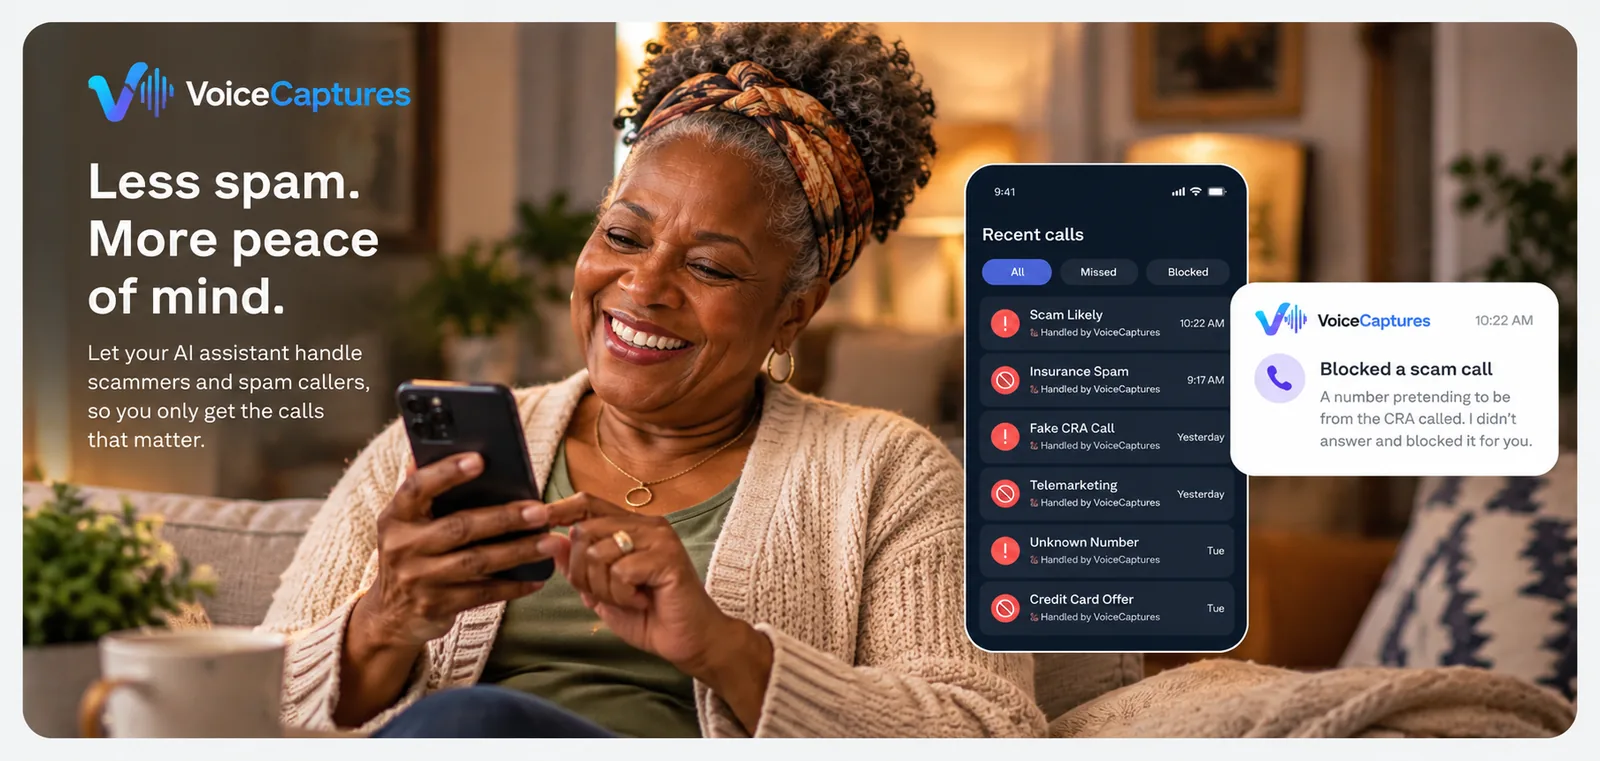
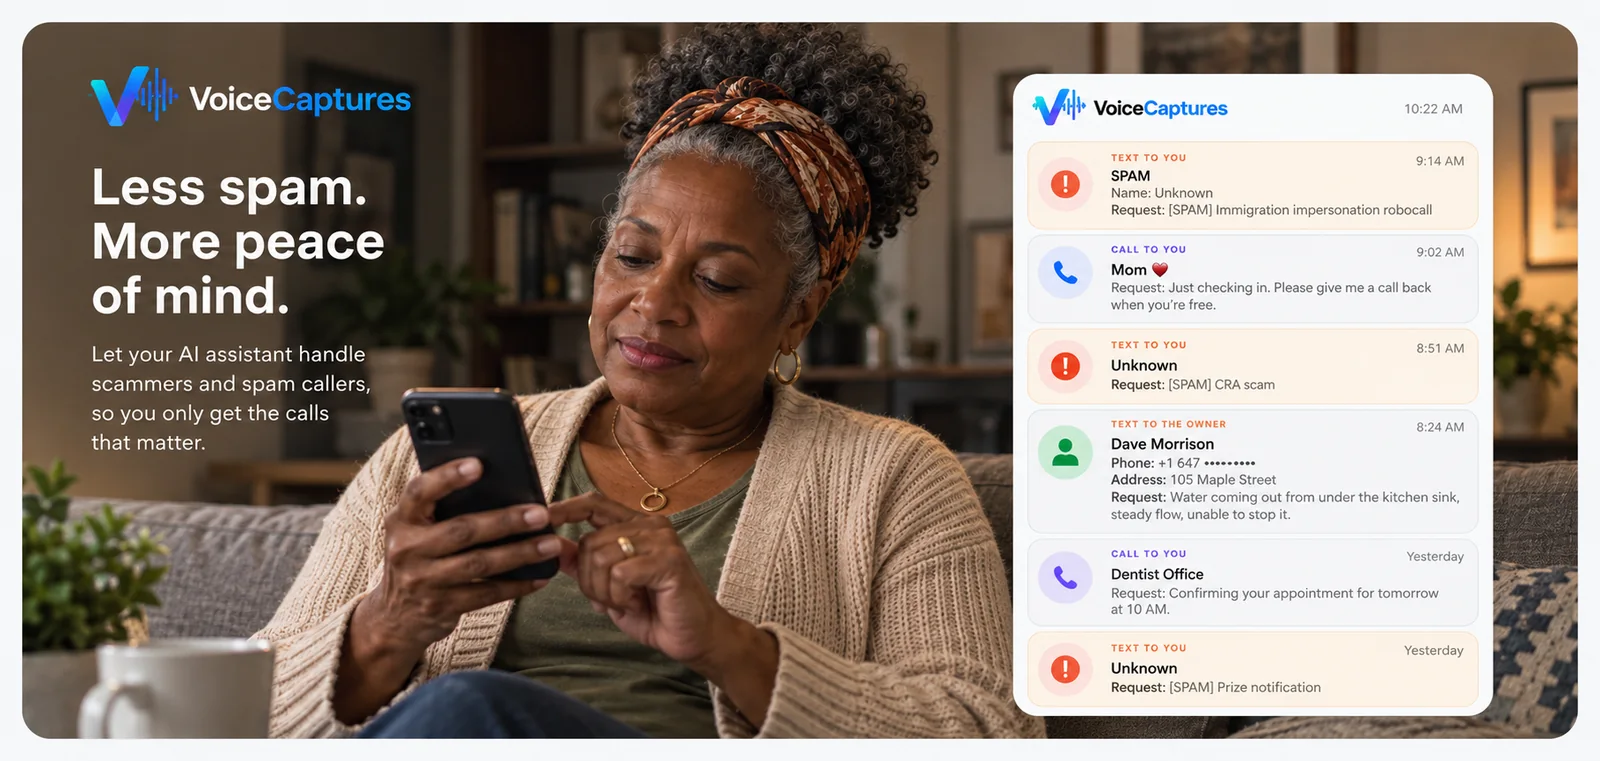
Preview: hero artwork full-bleed and seamless; trade copy moves to the collage
The phones looked pasted on because they were: a 720px rounded box with its
own pale background sitting on a differently coloured field. Fixed by making
the field the artwork's own colour rather than by cutting the artwork out.

Tried the cut first. Flood-filling the light background inward from the frame
edge protects the white SMS screen, which a global brightness key would have
punched holes in, but it also leaves the decorative waves behind, so the crop
barely moved. Sampling instead: the artwork's top and side edges are #EFF4FE,
so the hero field is set to exactly that and the picture runs edge to edge at
100% width with no radius. Its darker foot is masked into the field over the
last 10%, which removes the hard line it would otherwise draw.

The artwork is also cropped to its subject, losing about a third of dead
margin, so the phones render roughly half again as large at the same width.
Calls and Texts move above it into their own two-column row, because after
that crop there is no room beside the phones.

Personal line takes the newer artwork, which shows the real summary format.

It knows your trade moves out of the cards and into the middle of the collage,
where six sector photos already make the point; the four trade photos and
their card are gone, and the collage CTA carries the missed-call line.

Verified at 390, 768, 1000, 1280 and 1440: the artwork measures exactly the
viewport width at every one, no collage overlaps, no broken images, no 404s,
[…]

diff --git a/preview/index.html b/preview/index.html
@@ -110,26 +110,32 @@ header{position:sticky; top:0; z-index:40; background:rgba(255,255,255,.92);
 @media(min-width:1000px){ .nav{display:flex} .bar-end .login{display:inline} }
 
 /* ---- hero ---- */
-.hero{background:var(--f-blue); padding-top:var(--s16); padding-bottom:0}
+/* Sampled from the artwork: its top and side edges are #EFF4FE, so the field
+   behind it is set to the same value and the picture stops looking like a box
+   pasted onto a panel. It runs full-bleed and its foot is masked into the
+   field, which removes the hard line its darker bottom edge would otherwise
+   draw across the page. */
+.hero{background:#EFF4FE; padding-top:var(--s16); padding-bottom:0}
 .hero-top{text-align:center; max-width:860px; margin:0 auto}
 .hero-top .lede{margin-left:auto; margin-right:auto; text-align:center}
 .hero-cta{display:flex; flex-wrap:wrap; gap:var(--s3); justify-content:center; margin-top:var(--s8)}
 .hero-fine{margin-top:var(--s4); text-align:center}
-.hero-split{display:grid; gap:var(--s8); margin-top:var(--s16); align-items:center;
-  padding-bottom:var(--s24)}
+.hero-split{margin-top:var(--s16)}
+.hero-caps{display:grid; gap:var(--s8); grid-template-columns:1fr;
+  max-width:820px; margin:0 auto}
+@media(min-width:700px){ .hero-caps{grid-template-columns:1fr 1fr; gap:var(--s12)} }
 .cap{text-align:center; max-width:360px; margin:0 auto}
 .cap h3{display:flex; align-items:center; justify-content:center; gap:var(--s2);
   color:var(--wb); margin-bottom:var(--s3)}
 .cap p{margin:0; font-size:15px; line-height:23px; color:var(--ink-2)}
-@media(min-width:900px){
-  /* The phones are the hero asset, so they get the room: the side copy is
-     support, not an equal column. */
-  .hero-split{grid-template-columns:.85fr 2.2fr .85fr; gap:var(--s6)}
-}
+
 
 /* Device frame. Real product screenshots go inside; the frame is CSS so it
    stays sharp and needs no bespoke render. */
-.hero-art{width:100%; max-width:720px; margin:0 auto; border-radius:18px}
+.hero-art{display:block; width:100%; max-width:none; margin:var(--s12) 0 0;
+  border-radius:0;
+  -webkit-mask-image:linear-gradient(180deg,#000 90%,transparent 100%);
+  mask-image:linear-gradient(180deg,#000 90%,transparent 100%)}
 .phone{width:min(300px,78vw); margin:0 auto; border-radius:38px;
   background:#0D1729; padding:10px; border:1px solid rgba(255,255,255,.14)}
 .phone-in{border-radius:29px; overflow:hidden; background:#101A2E; aspect-ratio:9/19}
@@ -158,19 +164,6 @@ header{position:sticky; top:0; z-index:40; background:rgba(255,255,255,.92);
 .c-wb{background:var(--f-wb)}     .c-sand{background:var(--f-sand)}
 .c-ink{background:#15213A; color:#fff}
 .c-ink p{color:#C3D0E4}
-/* On the full-width card the heading sat in the left half and left a void to
-   its right, so above 860 the heading and the paragraph share the row. */
-@media(min-width:860px){
-  .span2 .card-head{display:grid; grid-template-columns:1fr 1fr; gap:var(--s8); align-items:start}
-  .span2 .card-head h3{margin-bottom:0}
-  .span2 .card-head p{max-width:none}
-}
-.trades{display:grid; gap:var(--s3); margin-top:var(--s6); grid-template-columns:1fr}
-.trades figure{margin:0}
-.trades img{width:100%; border-radius:12px; aspect-ratio:16/9; object-fit:cover}
-.trades figcaption{margin-top:var(--s2); font-size:13px; font-weight:700; color:var(--ink-2)}
-@media(min-width:620px){ .trades{grid-template-columns:1fr 1fr} }
-@media(min-width:1000px){ .trades{grid-template-columns:repeat(4,1fr)} }
 .badge{display:inline-block; font-size:11px; font-weight:800; letter-spacing:.08em;
   text-transform:uppercase; padding:5px 11px; border-radius:var(--r-pill);
   background:rgba(13,23,41,.08); color:var(--ink-2); margin-bottom:var(--s3)}
@@ -245,6 +238,7 @@ header{position:sticky; top:0; z-index:40; background:rgba(255,255,255,.92);
 .cstat span{display:block; margin-top:var(--s2); font-size:15px; line-height:22px; font-weight:600; max-width:30ch}
 .cstat cite{display:block; margin-top:var(--s1); font-size:12.5px; font-style:normal; color:var(--muted)}
 .cmid{grid-column:1/-1; text-align:center; margin:var(--s8) 0}
+.cmid p{margin:var(--s4) auto 0; font-size:15px; line-height:23px; color:var(--ink-2); max-width:46ch}
 .cmid .btn{margin-top:var(--s6)}
 
 @media(min-width:1000px){
@@ -264,9 +258,10 @@ header{position:sticky; top:0; z-index:40; background:rgba(255,255,255,.92);
   .s1{grid-column:8/10; grid-row:2/4;  text-align:right}
   .s1 span,.s1 cite{margin-left:auto}
   .s2{grid-column:1/4;  grid-row:4/6}
+  .p1{grid-row:1/4} .p2{grid-row:1/4}
   .s3{grid-column:7/10; grid-row:8/10; text-align:right}
   .s3 span,.s3 cite{margin-left:auto}
-  .cmid{grid-column:4/10; grid-row:5/8; align-self:center; margin:0}
+  .cmid{grid-column:4/10; grid-row:4/8; align-self:center; margin:0}
   .cstat b{font-size:clamp(30px,3.4vw,44px)}
   .cstat span{font-size:14px; line-height:20px}
 }
@@ -330,22 +325,23 @@ footer{background:var(--bg-soft); padding:var(--s16) 0; margin-top:0}
     </div>
 
     <div class="hero-split">
-      <div class="cap">
-        <h3><svg class="spark" width="18" height="18" viewBox="0 0 24 24" fill="currentColor" aria-hidden="true"><path d="M6.6 10.8a15.1 15.1 0 006.6 6.6l2.2-2.2a1 1 0 011-.25 11.4 11.4 0 003.6.6 1 1 0 011 1V20a1 1 0 01-1 1A17 17 0 013 4a1 1 0 011-1h3.5a1 1 0 011 1c0 1.25.2 2.46.57 3.6a1 1 0 01-.25 1z"/></svg>Calls</h3>
-        <p>Answers day or night in your business's name, triages the emergency,
-        and books into your real calendar while the caller is still on the line.</p>
-      </div>
-
-      <img class="hero-art" src="/preview/img/hero-phones.webp" width="1600" height="900"
-           alt="Two phones: the assistant answering a call, and the text conversation where it books the job">
-
-      <div class="cap">
-        <h3><svg class="spark" width="18" height="18" viewBox="0 0 24 24" fill="currentColor" aria-hidden="true"><path d="M20 2H4a2 2 0 00-2 2v18l4-4h14a2 2 0 002-2V4a2 2 0 00-2-2z"/></svg>Texts</h3>
-        <p>Sends you the caller's name, number and what they wanted before you
-        pick up the phone, and texts the caller their confirmation.</p>
+      <div class="hero-caps">
+        <div class="cap">
+          <h3><svg class="spark" width="18" height="18" viewBox="0 0 24 24" fill="currentColor" aria-hidden="true"><path d="M6.6 10.8a15.1 15.1 0 006.6 6.6l2.2-2.2a1 1 0 011-.25 11.4 11.4 0 003.6.6 1 1 0 011 1V20a1 1 0 01-1 1A17 17 0 013 4a1 1 0 011-1h3.5a1 1 0 011 1c0 1.25.2 2.46.57 3.6a1 1 0 01-.25 1z"/></svg>Calls</h3>
+          <p>Answers day or night in your business’s name, triages the emergency,
+          and books into your real calendar while the caller is still on the line.</p>
+        </div>
+        <div class="cap">
+          <h3><svg class="spark" width="18" height="18" viewBox="0 0 24 24" fill="currentColor" aria-hidden="true"><path d="M20 2H4a2 2 0 00-2 2v18l4-4h14a2 2 0 002-2V4a2 2 0 00-2-2z"/></svg>Texts</h3>
+          <p>Sends you the caller’s name, number and what they wanted before you
+          pick up the phone, and texts the caller their confirmation.</p>
+        </div>
       </div>
     </div>
   </div>
+
+  <img class="hero-art" src="/preview/img/hero-phones.webp" width="1500" height="1165"
+       alt="Two phones: the assistant answering a call, and the text conversation where it books the job">
 </section>
 
 <section class="tl-pin" id="tl-pin" style="padding:0">
@@ -407,26 +403,6 @@ footer{background:var(--bg-soft); padding:var(--s16) 0; margin-top:0}
           loading="lazy" alt="Past customers flowing into a week of booked callbacks"></div>
       </div>
 
-      <div class="card c-sand span2">
-        <span class="badge badge-live">Available now</span>
-        <div class="card-head">
-          <h3>It knows your trade, <span class="pay">not just your name.</span></h3>
-          <p>A plumber needs to know whether water is on the floor right now. A clinic
-          needs to separate a new patient from an emergency, and must never record a
-          symptom. Those are different assistants, not different greetings.</p>
-        </div>
-        <div class="trades">
-          <figure><img src="/preview/img/trade-home.webp" width="1600" height="900" loading="lazy"
-            alt="A plumber under a sink; the assistant has booked the service visit"><figcaption>Home services &amp; trades</figcaption></figure>
-          <figure><img src="/preview/img/trade-food.webp" width="1600" height="900" loading="lazy"
-            alt="A chef plating; the assistant has taken the reservation"><figcaption>Restaurants &amp; caf&eacute;s</figcaption></figure>
-          <figure><img src="/preview/img/trade-clinic.webp" width="1600" height="900" loading="lazy"
-            alt="A clinician at work; the assistant has rebooked the appointment"><figcaption>Clinics &amp; dental</figcaption></figure>
-          <figure><img src="/preview/img/trade-law.webp" width="1600" height="900" loading="lazy"
-            alt="A lawyer in a meeting; the assistant has scheduled the consultation"><figcaption>Professional services</figcaption></figure>
-        </div>
-      </div>
-
       <div class="card c-blue">
         <span class="badge badge-soon">Coming soon</span>
         <h3>A personal line <span class="pay">for your own phone.</span></h3>
@@ -461,8 +437,11 @@ footer{background:var(--bg-soft); padding:var(--s16) 0; margin-top:0}
       <div class="cstat s3"><b>$500&ndash;$1,200</b><span>is what one missed service call is worth</span><cite>answeringagent.com, 2026</cite></div>
 
       <div class="cmid">
-        <h2>See what a missed call <span class="pay">is costing you.</span></h2>
-        <a class="btn btn-dark" href="#">Run it on your numbers</a>
+        <h2>It knows your trade, <span class="pay">not just your name.</span></h2>
+        <p>A plumber needs to know whether water is on the floor right now. A clinic
+        needs to separate a new patient from an emergency, and must never record a
+        symptom. Those are different assistants, not different greetings.</p>
+        <a class="btn btn-dark" href="#">See what a missed call is costing you</a>
       </div>
     </div>
   </div>
